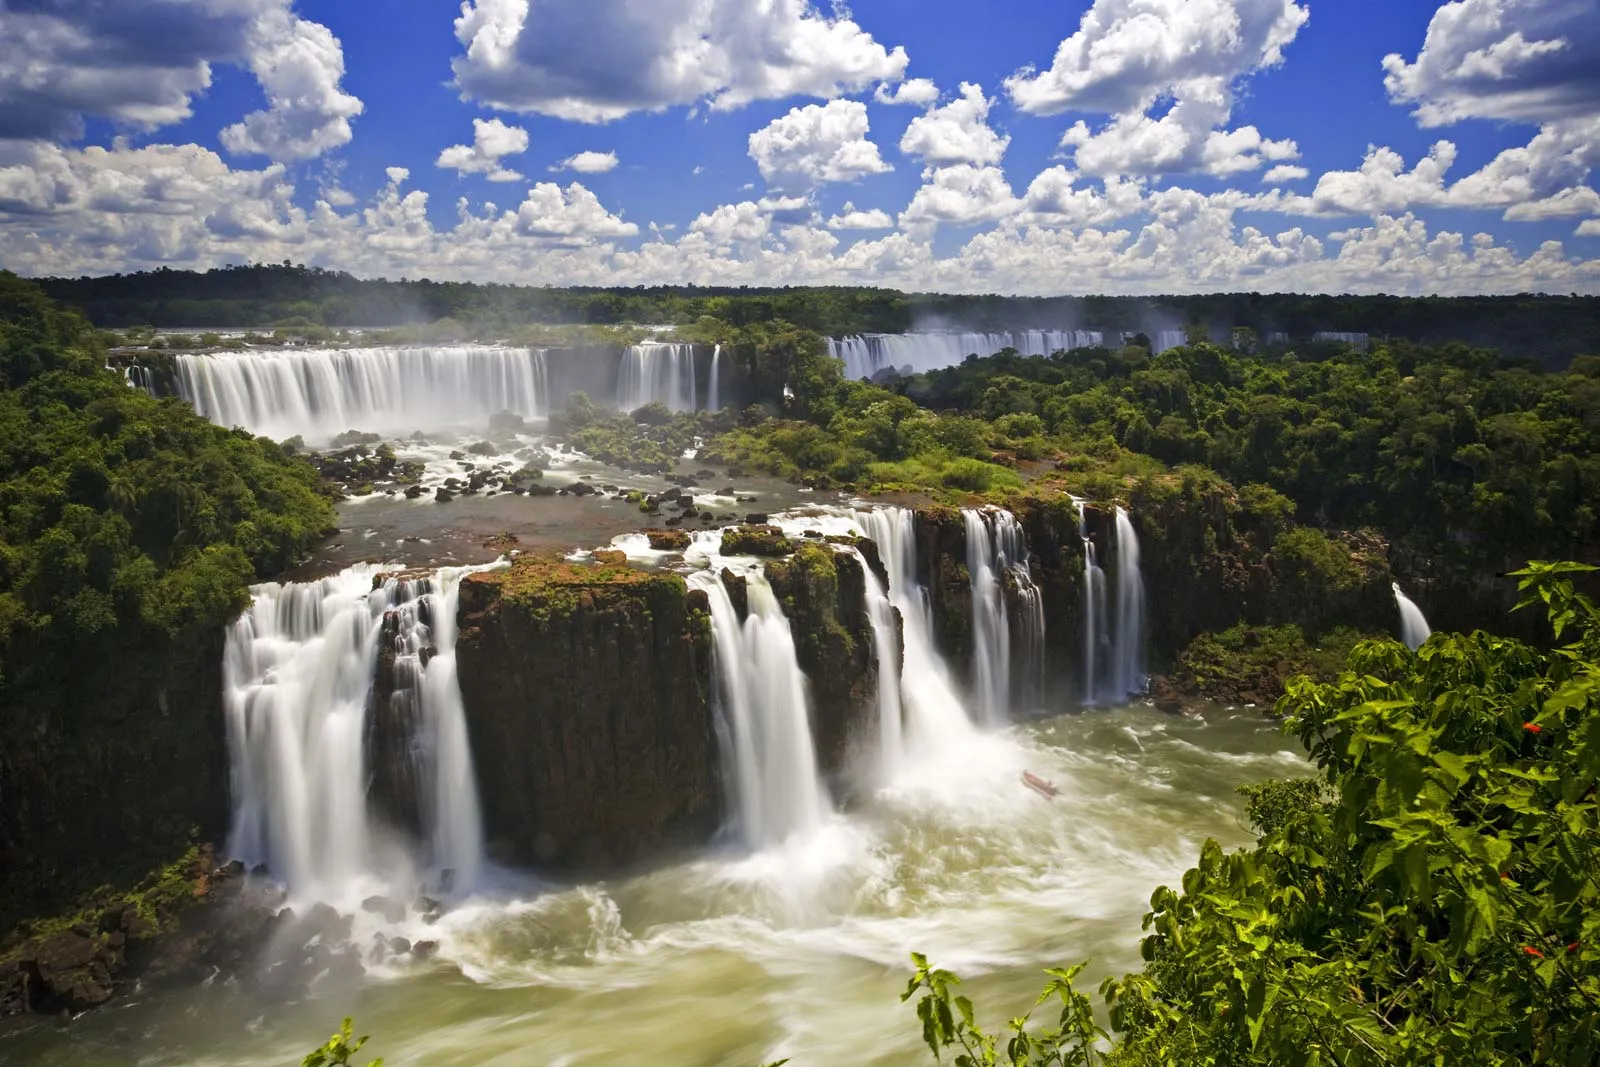
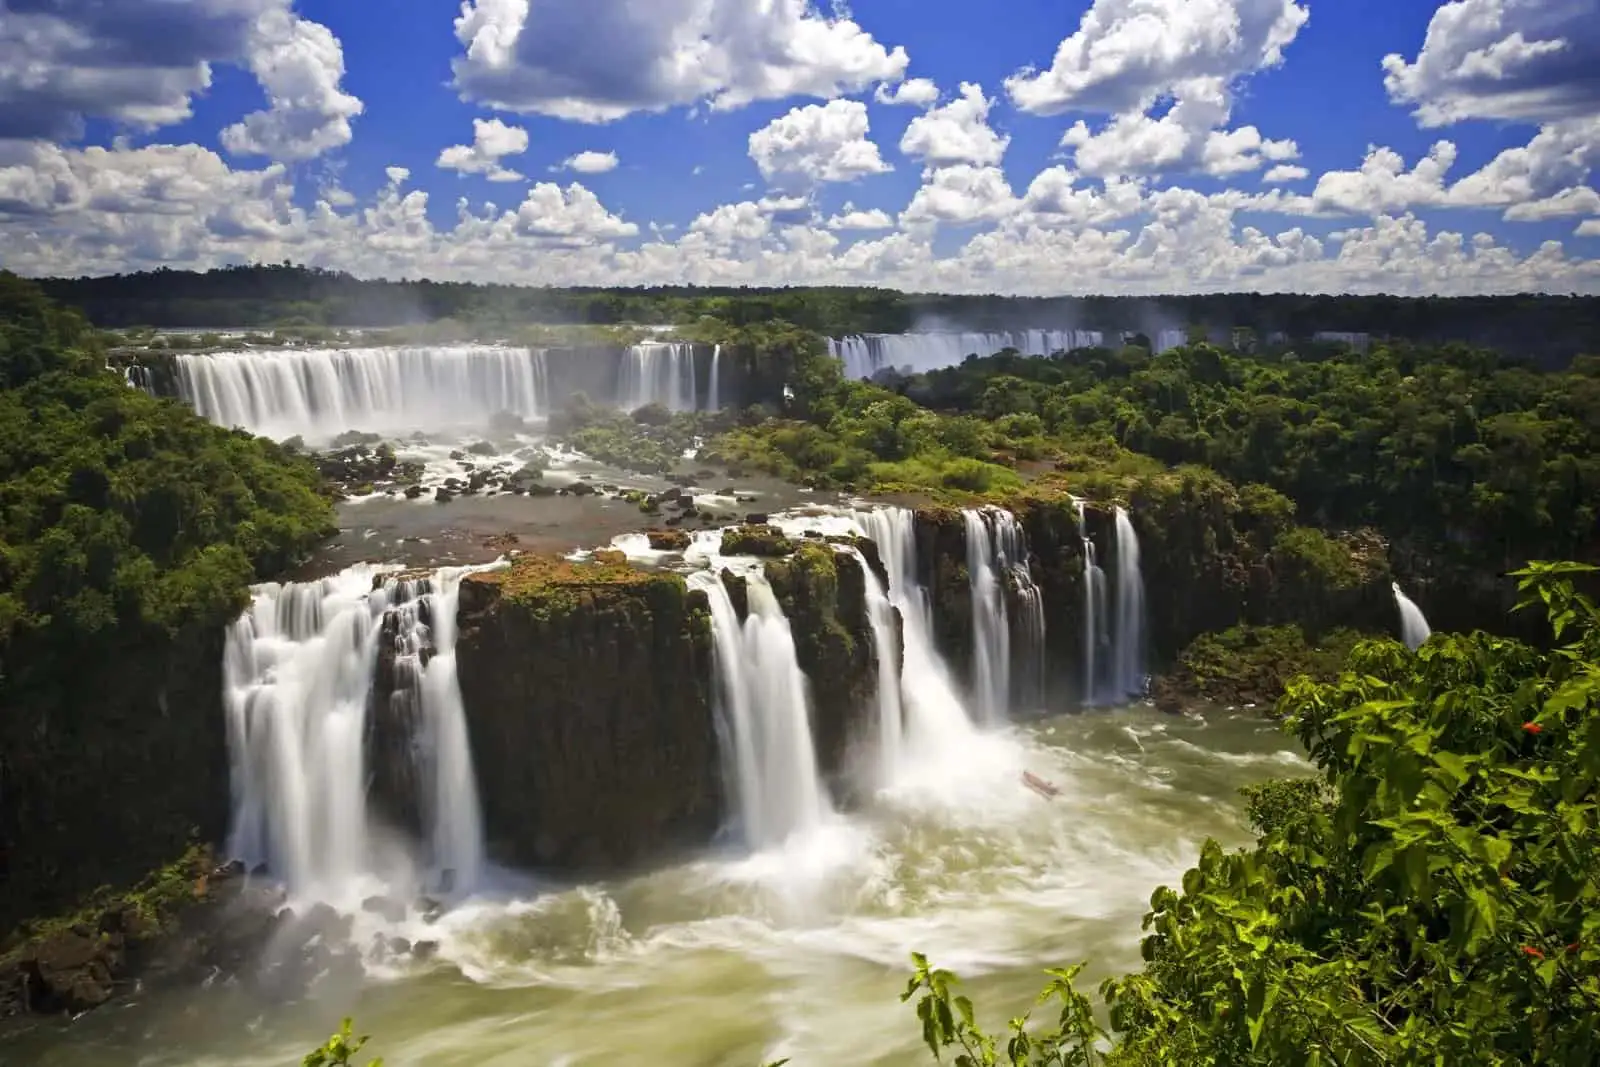
update

diff --git a/place.html b/place.html
@@ -19,7 +19,7 @@
         <img id="main-image" src="images/Argentina.webp" alt="argentinian waterfall">
     </figure>
     <figure>
-        <img id="small-image" src="images/Argintina-small-view.jpg" alt="argentinian waterfall">
+        <img id="small-image" src="images/Argintina-small-view.webp" alt="argentinian waterfall">
     </figure>
     <main>
         <div class="data-card">
